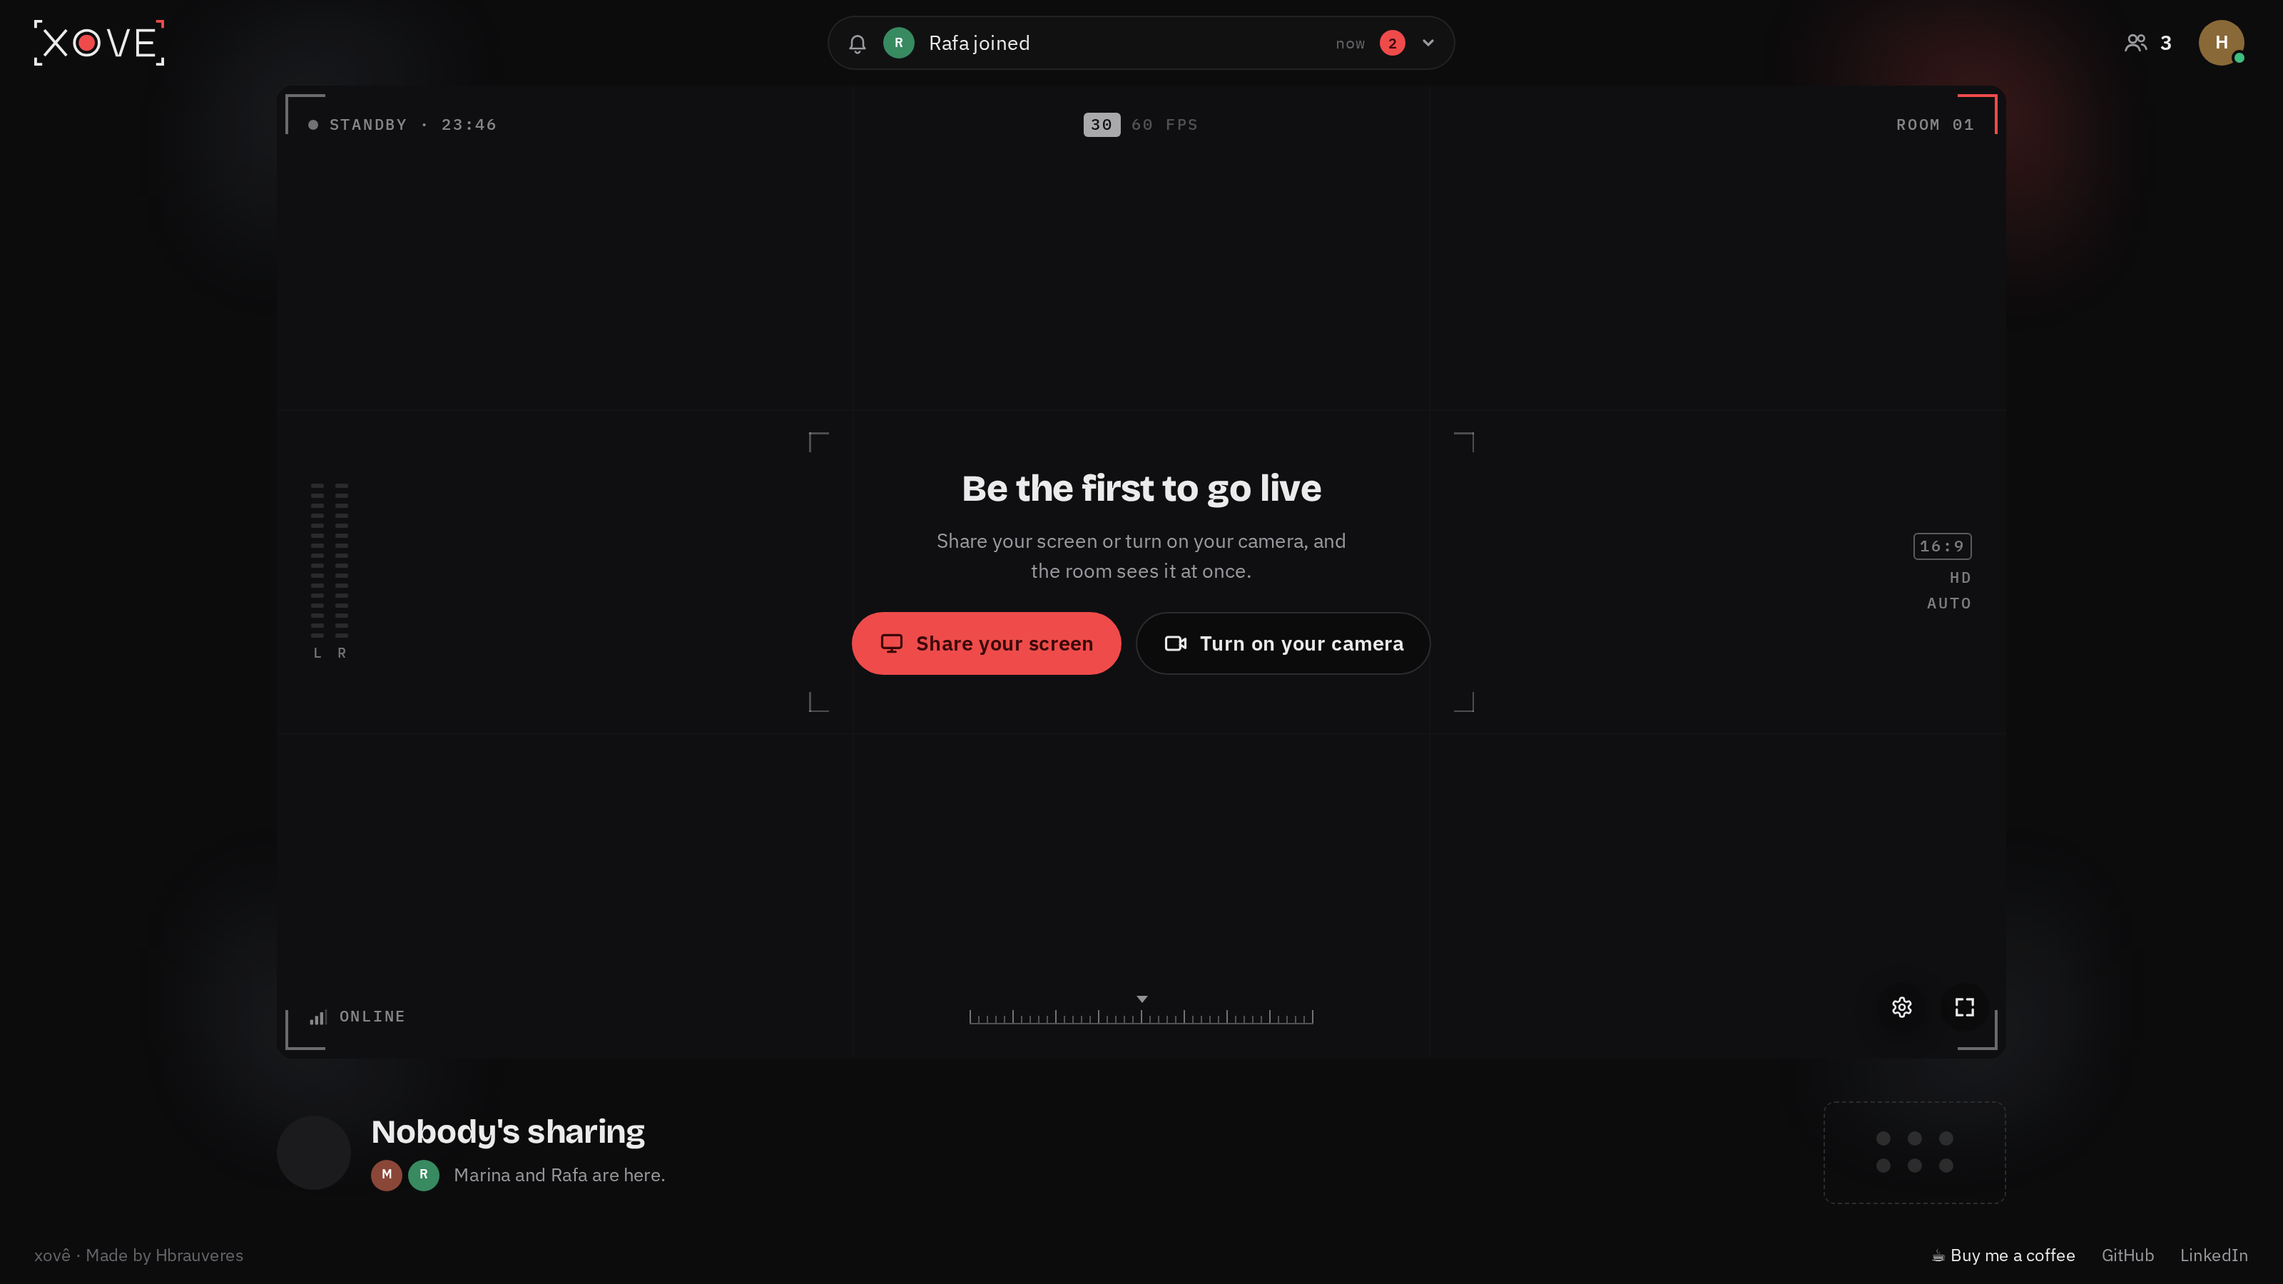
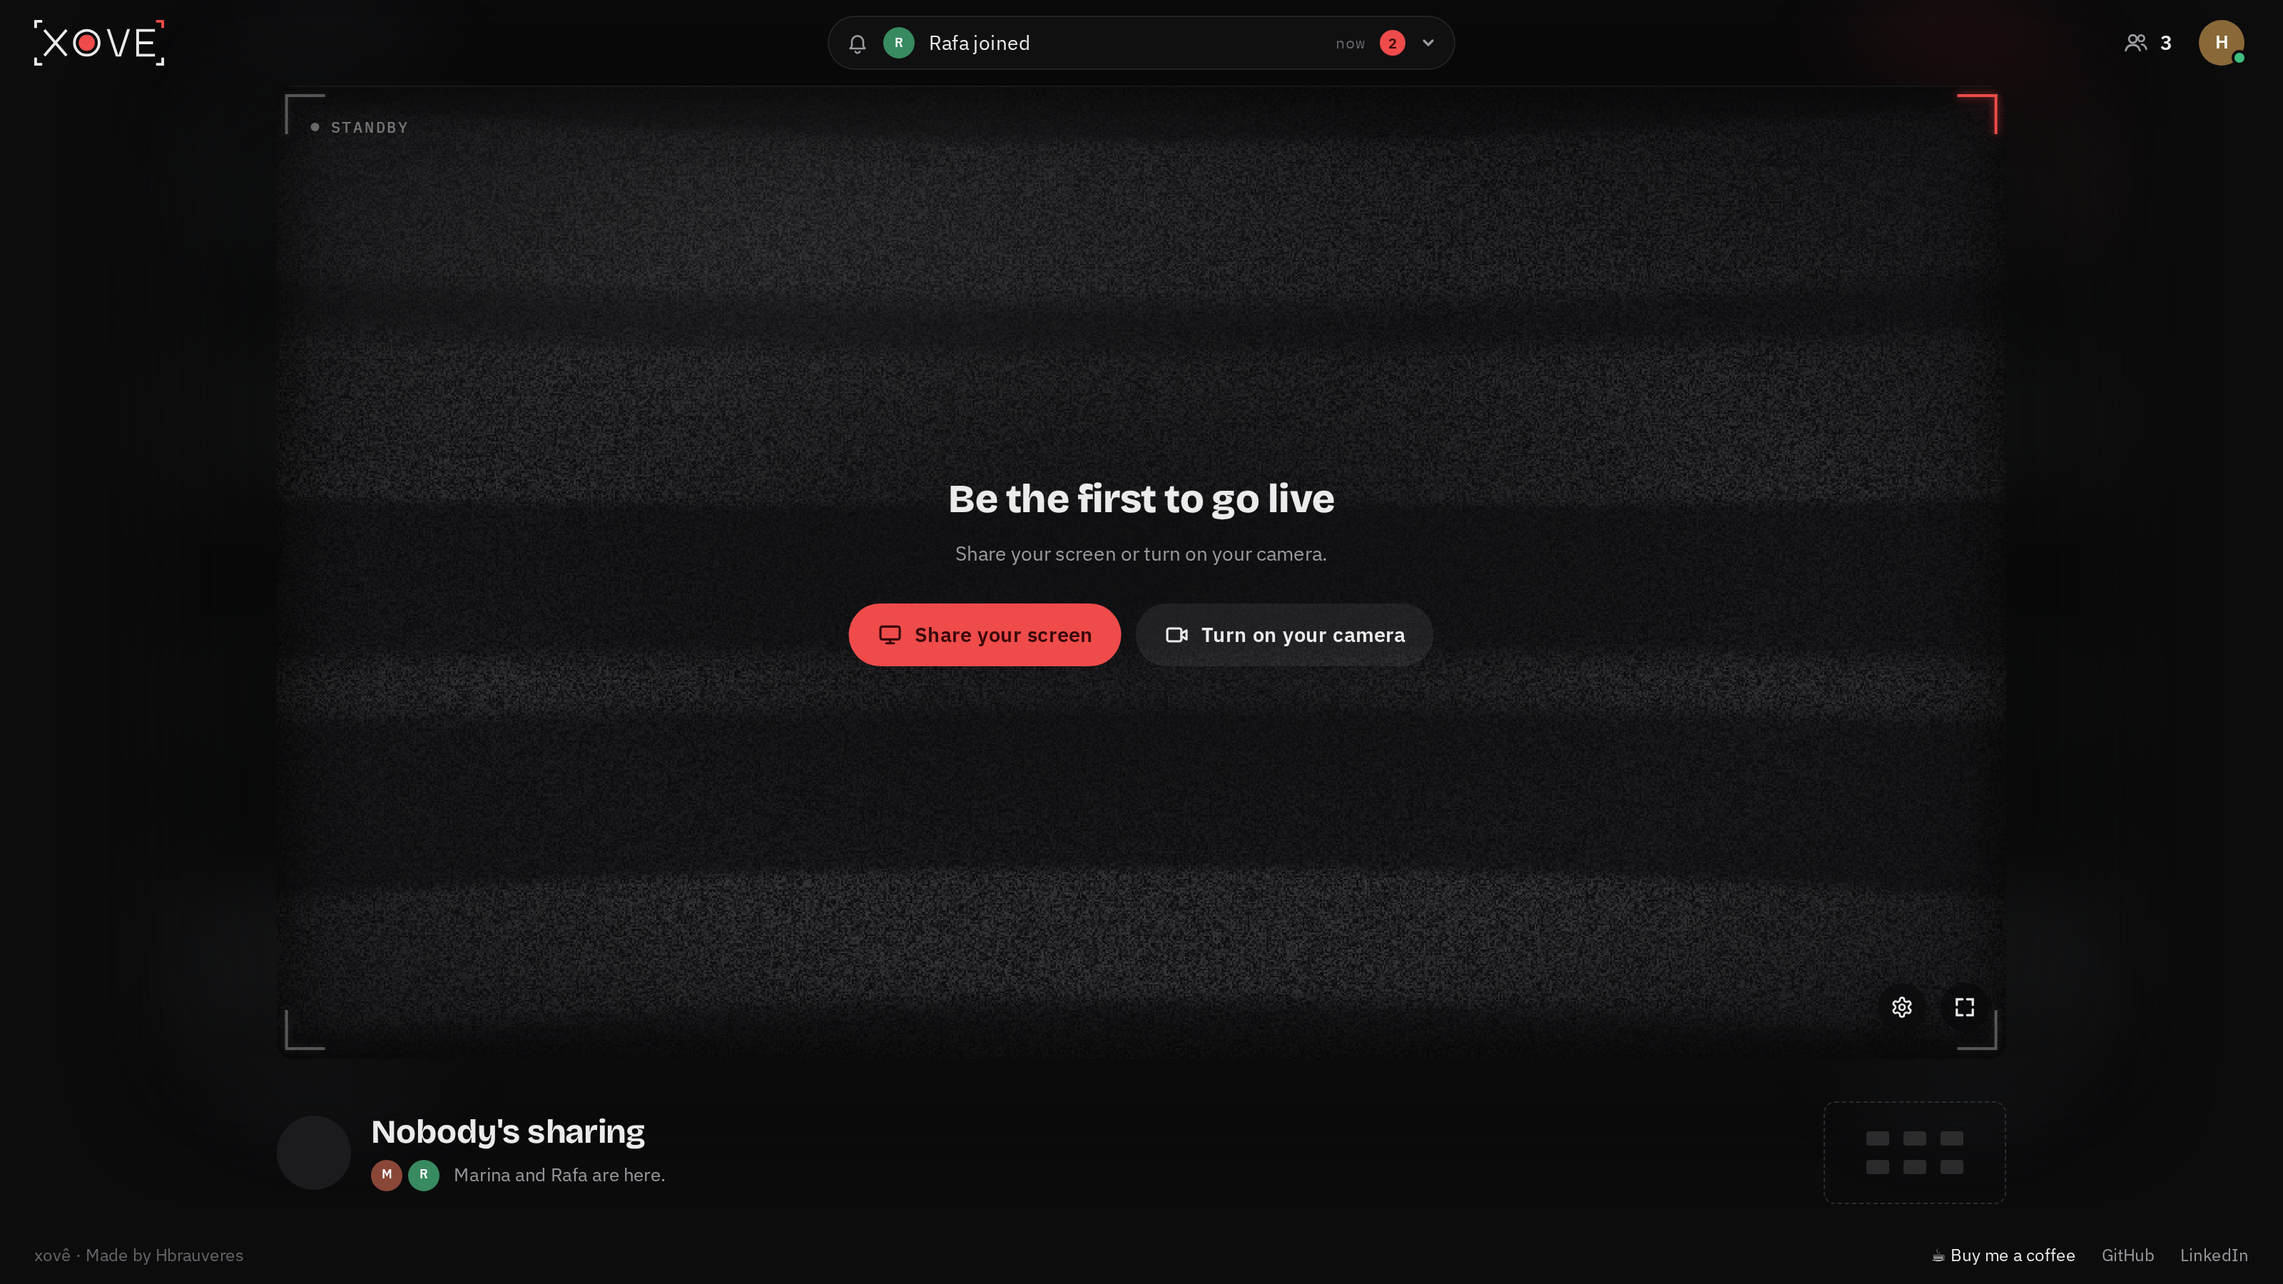
docs(web): the standby screen as a TV, its static, light and turn-on, as rules and pictures (0136)

diff --git a/docs/design.md b/docs/design.md
@@ -158,6 +158,8 @@ Body line height is 1.5; headings balance their lines (`text-wrap: balance`). Fo
 | A list unrolling from its pill, its options fading in by their distance (40 ms apart), and rolling back | 220 ms; 150 ms back | `cubic-bezier(0.2, 0.8, 0.2, 1)`; ease-in back |
 | The soft light behind an option pointed at | 160 ms | ease |
 | The player moving up for the settings sheet (upright full view) and back | 260 ms | `cubic-bezier(0.2, 0.8, 0.2, 1)` |
+| The standby static: its bands rolling down (24 px a second on a desktop's stage), swaying and shimmering | 20 updates a second; still with reduced motion | — |
+| The TV turning on: a point, a line, the bloom (peak at about 380 ms), the band opening from the middle | 900 ms, once a visit; none with reduced motion | `cubic-bezier(0.2, 0.8, 0.2, 1)` and kin |
 | A new activity in the pill | 350 ms | ease |
 | Facecam buttons fading | 250 ms | ease |
 | The stage resizing to a new picture | 350 ms | ease |
@@ -310,7 +312,7 @@ A slim grey track (**36 × 12 px**, `#3a3a3d`) that looks the same off and on, a
 
 ![The info row under the stage](images/design/info-row.png)
 
-- **The info row:** on the left, who's on the stage (avatar with its ring, name in the display font, LIVE, what (" · voice" while their voice is on), how long) and who's watching (up to 4 avatars and "N watching", me included, never the sharer); with nobody live, an empty circle where the photo goes, **"Nobody's sharing"**, and who's here. On the right, the other streams as **previews** with a name chip (their screen, or their camera when that's all they share), then **the seats**: a dashed box of six dots, three over three, grey for an open seat and red for each stream live, their count in words on hover; gone when all 6 are live. When room runs short, the left gives way first, then the previews scroll with a slim scrollbar, and the box stays put.
+- **The info row:** on the left, who's on the stage (avatar with its ring, name in the display font, LIVE, what (" · voice" while their voice is on), how long) and who's watching (up to 4 avatars and "N watching", me included, never the sharer); with nobody live, an empty circle where the photo goes, **"Nobody's sharing"**, and who's here. On the right, the other streams as **previews** with a name chip (their screen, or their camera when that's all they share), then **the seats**: a dashed box of six little screens (16 × 10 px, 2 px corners), three over three, grey for an open seat and red for each stream live with a steady red light under it, their count in words on hover; gone when all 6 are live. When room runs short, the left gives way first, then the previews scroll with a slim scrollbar, and the box stays put.
 - **Previews can be heard:** each person's sound and voice have [one switch each](#what-i-hear-and-go-live), off at first while small; a preview I turn on plays at its own volume, as many as I like. A preview's sounds are downloaded only while I hear them.
 - **Small pictures show their buttons only when asked:** pointing at a desktop preview (128 px; a mouse) or holding it for 500 ms (a finger) opens its **row** outside the picture: the voice (a speaking head), the screen's sound, and a swap when they share a screen and a camera. **Big pictures** (the phone's feed) keep the buttons on the picture, each with its own upright slider.
 - **The row** floats under the preview, or above it where the window has no room under it (the side is chosen once, as it opens, with room for the slider); it's **exactly the picture's width**, centred on the picture (not on what peeks out behind it), and follows its preview. It wears the [panels' glass](#dropdown-panels) (16 px corners, its thin light border, the panels' shadow); its 28 px buttons are clear until hovered and **centred both ways** (5 px above and below while closed). **Resting on a button (120 ms) or holding it unrolls one slider after the buttons**, on the side away from the preview, so the buttons never move under the pointer; the row never changes width. The button whose slider is open has a soft 1 px ring. Moving to the other sound, the old bar shrinks to the left as the new one grows from it. The row stays while its slider is in use and while the pointer travels from the preview to it (250 ms); it closes a moment after the pointer leaves both, or on a press elsewhere. Moving to another preview, its row unrolls from it as the last one rolls back into its own.
@@ -358,12 +360,18 @@ Turning switches layouts at once, and the stage keeps its place in the page, so 
 
 ![A tall picture: the box keeps the column's width, the controls at its corners over the dark sides](images/design/stage-tall-picture.png) ![The empty room on a desktop](images/design/room-empty-desktop.png)
 
-**Nobody live, a camera waiting:**
+**Nobody live, a TV on standby:**
 
-- **Viewfinder corners** close to the stage's edges (the stage's buttons sit inside the bottom-right one), the top right red as in the logo, on one flat dark.
-- **Their glow:** each corner glows outward in its own colour, a blurred L just outside the stage, a fade with no edge; still, following the ambilight's switch and brightness.
-- **A quiet camera display** in small grey mono capitals, still but for the clock: a grey dot, "Standby" and the time (never a red dot: that would mean recording); the frame rate (`30` lit in a filled box, what's sent; "60 fps" faint); "Room 01"; an empty L/R meter; `16:9`, HD, Auto; a signal and "Online"; a plain tick ruler; a thirds grid at about 1.6% white. Small stages keep only the top line; sideways, the corners start under the floating top bar and the top line hides.
-- **In a faint focus frame:** "Be the first to go live", a line, and the two ways to start (on a phone, the camera first and the screen greyed).
+- **Viewfinder corners**, the screen's only frame: close to the stage's own edges on every layout, sideways too (the stage's buttons sit inside the bottom-right one), the top right red as in the logo. Finer and fainter on small stages (18 px arms, 1.5 px), and each **glows softly in its own colour**.
+- **Their light outside:** each corner glows outward too, a blurred L just outside the stage, a fade with no edge; still, following the ambilight's switch and brightness.
+- **"Standby"**, still, in small grey mono capitals with a grey dot (never red: that would mean recording), on larger stages only. Nothing else imitates equipment: no clock, meter, ruler, format tags or room number.
+- **The way to start**, with no frame of its own: "Be the first to go live", one short line ("Share your screen or turn on your camera.", or "Turn on your camera." where a screen can't be shared), and the ways to start. The second way is a soft fill with no outline. **On phones** the heading and the buttons only, centred above the stage's own buttons: the camera one compact pill, a screen the browser can't share a small greyed round button beside it (a tap says why); under 360 px they shrink again.
+- **The TV's static** behind it all: snow in soft horizontal bands (their gaps at 40% of the bands' brightness), shown at 17% over the stage's dark and darker behind the heading. The bands roll down together keeping their sizes, the picture sways a little as a TV losing its vertical hold, and the bands shimmer, 20 times a second. The grain is 1.5 px on a desktop's stage and finer on smaller ones (down to 0.75 px), and the bands are a share of the stage's height, so a phone shows the same picture smaller. Still for reduced motion.
+- **Curved glass, 90s style:** square corners; the glass darker towards its edges, a soft sheen high on the left, a faint line of light along the top; the bands bow gently towards the sides. Not a fisheye.
+- **The static lights the room:** its bands' light spills onto the page round the stage as they roll, measured from the static itself, so it's never brighter than the screen; it follows the ambilight's switch and brightness.
+- **The TV turns on** the first time the stage stands by in a visit, in 0.9 s, eased and soft-edged: a point of light, a glowing line drawn across, a white bloom filling the screen and lighting the wall, then a grey band that opens from the middle while dimming onto the static. White, with only a hint of the red at the glow's edges. Never again when the last stream stops; none for reduced motion.
+
+![The TV turning on, every 50 ms](images/design/turn-on.png)
 
 ### Phone, upright
 
@@ -433,6 +441,11 @@ What a phone or tablet sees in a browser tab, on every page: the wordmark, the s
 - **Reuse the components:** `RoundButton` styles, `Button`, `Range`, the switch, `Dropdown`, `Segmented`, `Picker`, `DropUp`, `Avatar`, `LiveDot`, `StageNotice`, `Toast`. A new control follows their sizes, motion and focus ring. A choice from a list is a `Picker` (one box, floating, with the slim scrollbar when long), a few options a `Segmented`, and a quick action over a live button a `DropUp`, everywhere in the app.
 - **Panels open over the button that opened them,** never from a side; on a wide, short player they use the width (two columns) rather than scroll. **Panels are frosted, never opaque**; nothing over the video hides the round buttons.
 - **Say what effects cost:** blur, canvases and animations run on every frame; keep them to what's here.
+- **A screen says only what matters.** No readouts that imitate real equipment (clocks, meters, rulers, format tags, made-up numbers), and no frame inside another frame.
+- **One short line under a heading, at most,** saying what to do, not what follows from it.
+- **Light comes from something, never brighter than it:** a glow round a screen or a picture is measured from what's on it.
+- **The pointer stays a pointer:** no glows, trails or effects under it.
+- **A first impression plays once:** an intro (the TV turning on) plays the first time in a visit, never again for the same state, and never for reduced motion.
 
 ## Keeping this page current
 

diff --git a/docs/architecture.md b/docs/architecture.md
@@ -24,7 +24,7 @@ Everything is in `app/src`:
 | `pages/` | One component per route: `HomePage`, `RequestAccessPage`, `RoomPage`, `AdminPage`, and `InstallPage` |
 | `hooks/` | The room's state and the browser's: the seat and the queue (`useRoomSeat`), the streams (`useStreams`), the LiveKit connection (`useLiveKitRoom`), both put together for the room (`useRoomSession`), who's on the stage (`useStagePick`), the layout (`useRoomLayout`), swipes (`useStageSwipe`), the video's shape (`useVideoShape`), the round buttons' row holding the clicked button still (`usePinnedRow`), and small ones (`useElapsed`, `useFullscreenElement`, `useInstalled`) |
 | `media/` | How screens and cameras are sent (`shareSettings.ts`), the ambilight's drawing (`ambilight.ts`), who is big by default (`stagePick.ts`), choices kept in the browser (`preferences.ts`) |
-| `components/stage/` | The player and what's on it: the stage, the ambilight, the controls by owner: my own stream's round buttons (`PlayerButtons`; their icons in `icons.tsx`, the drop-ups on live ones) and, over someone else's stream, `ViewerBar` (what I hear at the left, each sound its own button and slider; my mic or Go live at the right); the voice I hear (`VoiceAudio`), each person's switches and volumes held by the stage for the visit (the rule in `media/hearing.ts`), and the previews' buttons (`HearToggles`: over a big picture, or in a small preview's row, `PreviewTray`, which floats on its own layer over the page and follows its preview, opened through `usePreviewTray`; a preview's stack, its swap's moment and the finger's hold in `stack.ts`); the settings panel (`SettingsPanel`, its Voice tab's mic level in `MicTest`, and `makeRoom`, which moves the player up for its sheet in the upright full view), the facecam, the previews, the phone's feed and row, the empty stage (`EmptyStage`, its corners' glow in `CornerGlow`), the info row. The stage is two layers: its box holds every control (the round buttons, the sounds, Go live, the fullscreen button, the dots) and takes the taps; a view inside it holds the picture and its ambilight in the picture's shape. Sideways and in a phone's upright full view the box is the whole screen; there `makeRoom` moves the view up for the settings sheet, and the controls end above the sheet from its height; in the upright normal view `liftButtons` lifts the buttons over the video where a tall player reaches under the sheet |
+| `components/stage/` | The player and what's on it: the stage, the ambilight, the controls by owner: my own stream's round buttons (`PlayerButtons`; their icons in `icons.tsx`, the drop-ups on live ones) and, over someone else's stream, `ViewerBar` (what I hear at the left, each sound its own button and slider; my mic or Go live at the right); the voice I hear (`VoiceAudio`), each person's switches and volumes held by the stage for the visit (the rule in `media/hearing.ts`), and the previews' buttons (`HearToggles`: over a big picture, or in a small preview's row, `PreviewTray`, which floats on its own layer over the page and follows its preview, opened through `usePreviewTray`; a preview's stack, its swap's moment and the finger's hold in `stack.ts`); the settings panel (`SettingsPanel`, its Voice tab's mic level in `MicTest`, and `makeRoom`, which moves the player up for its sheet in the upright full view), the facecam, the previews, the phone's feed and row, the empty stage (`EmptyStage`, a TV on standby: its corners' glow in `CornerGlow`; its TV static in `StaticNoise`, a small canvas the page draws 20 times a second, its grain and bands scaled to the stage; the static's light round the stage in `StaticGlow`; both read their bands from `staticBands.ts`, so they roll together, and its `tv` flag lets the TV's turn-on play only the first time the stage stands by in a visit), the info row. The stage is two layers: its box holds every control (the round buttons, the sounds, Go live, the fullscreen button, the dots) and takes the taps; a view inside it holds the picture and its ambilight in the picture's shape. Sideways and in a phone's upright full view the box is the whole screen; there `makeRoom` moves the view up for the settings sheet, and the controls end above the sheet from its height; in the upright normal view `liftButtons` lifts the buttons over the video where a tall player reaches under the sheet |
 | `components/room/` | The room around the stage: header, footer, people, activity (pill, bell, list), account menu, the waiting screen and the seat offer |
 | `components/ui/` | Shared controls: `Button`, `Range`, `Dropdown`, `Segmented`, `Picker` (a list that floats over its panel, masking what's behind it in the nearest `[data-list-host]`; it opens on request too), `DropUp` (its gestures can redirect to an open panel), `Tooltip` (the app's only tooltip, on its own layer, describing its control for screen readers), `floating.ts` (one tooltip or drop-up showing at a time, what floats inside another belonging to it), the cue (`cue.module.css`), `Avatar`, `PersonAvatar`, `LiveDot`, `FullPageMessage`, `Toast` (a short message any component shows with `showToast`) |
 | `components/brand/`, `brand/` | The mark: its geometry and animation timeline (`brand/`), and the components that draw it (`XoveMark`, `XoveIcon`) |

diff --git a/docs/testing.md b/docs/testing.md
@@ -48,6 +48,7 @@ Most tests render a real page, or the whole app at a URL (`test/renderApp.tsx`),
 
 - **`test/fakeApi.ts`** replaces `fetch` with a small in-memory API. A test sets its state (who I am, who's sharing, a forced failure), and checks the requests the app sent (`server.calls`), headers included, so the CSRF token is tested too.
 - **`test/fakeLiveKit.ts`** replaces `livekit-client` (jsdom has no WebRTC). A test plays the other people: someone joins (`lastRoom().join(...)`), starts a screen (`publishScreen(...)`), or the browser's own "Stop sharing" bar is used (`browserStopsMyShare()`). What the next screen pick is (a window, a tab or the whole screen) is `nextSurface`. Voices too: someone's mic (`publishVoice`, `muteVoice`), who's speaking (`setSpeaking`), and my own mic, allowed, blocked or missing (`nextMic`), with the gate set on it (`setProcessor`).
+- **No canvas:** jsdom has none, so `test/setup.ts` makes every canvas give no drawing context; what draws (the ambilight, the standby screen's static) does nothing in tests. A test of the drawing stubs its own context (`vi.spyOn(HTMLCanvasElement.prototype, "getContext")`), and how it looks is checked in a real browser.
 
 The room page takes a short poll interval in tests, so nothing waits 2 seconds. From `pages/RoomPage.test.tsx`:
 
